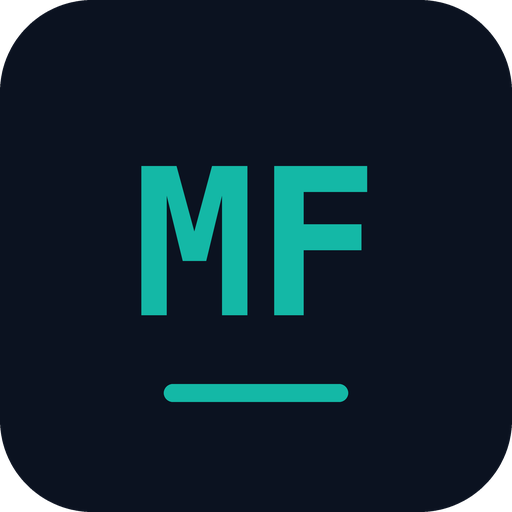
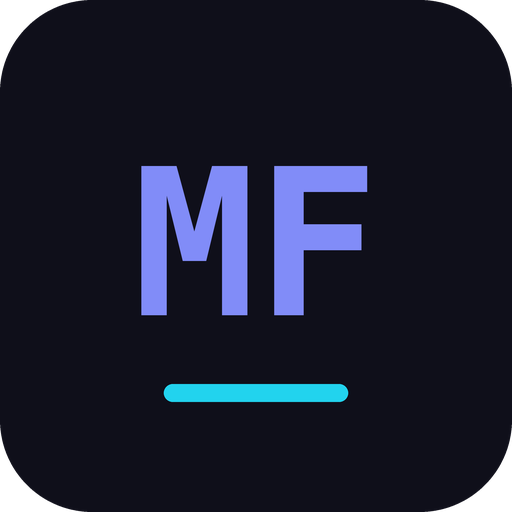
feat: switch to the Indigo Shield palette

Changed region(s): [[0.25, 0.3125, 0.5, 0.625], [0.5312, 0.3125, 0.7188, 0.625], [0.3125, 0.75, 0.6875, 0.8125]]

diff --git a/app/globals.css b/app/globals.css
@@ -4,55 +4,55 @@
 @custom-variant dark (&:where(.dark, .dark *));
 
 :root {
-  --background: #f8fafc;
+  --background: #f7f7fb;
   --surface: #ffffff;
-  --surface-muted: #f1f5f9;
-  --border: #e2e8f0;
-  --foreground: #0f172a;
-  --muted-foreground: #475569;
-  --primary: #0f766e;
-  --primary-hover: #115e59;
+  --surface-muted: #f1f1f8;
+  --border: #e4e4ef;
+  --foreground: #111127;
+  --muted-foreground: #4b4b63;
+  --primary: #4f46e5;
+  --primary-hover: #4338ca;
   --primary-foreground: #ffffff;
-  --primary-soft: #ccfbf1;
-  --primary-soft-foreground: #115e59;
-  --secondary-accent: #2563eb;
-  --secondary-soft: #dbeafe;
-  --secondary-soft-foreground: #1e40af;
+  --primary-soft: #e0e7ff;
+  --primary-soft-foreground: #3730a3;
+  --secondary-accent: #0e7490;
+  --secondary-soft: #cffafe;
+  --secondary-soft-foreground: #155e75;
   --success: #15803d;
   --danger: #b91c1c;
-  --ring: #14b8a6;
-  --grid-line: rgb(15 23 42 / 0.04);
-  --shadow-card: 0 1px 2px rgb(15 23 42 / 0.04), 0 8px 24px -6px rgb(15 23 42 / 0.08);
-  --shadow-card-hover: 0 2px 4px rgb(15 23 42 / 0.04), 0 22px 44px -14px rgb(15 118 110 / 0.28);
-  --shadow-glow: 0 24px 60px -18px rgb(15 118 110 / 0.45);
-  --blob-a: rgb(20 184 166 / 0.22);
-  --blob-b: rgb(37 99 235 / 0.14);
+  --ring: #6366f1;
+  --grid-line: rgb(17 17 39 / 0.045);
+  --shadow-card: 0 1px 2px rgb(17 17 39 / 0.04), 0 8px 24px -6px rgb(17 17 39 / 0.08);
+  --shadow-card-hover: 0 2px 4px rgb(17 17 39 / 0.04), 0 22px 44px -14px rgb(79 70 229 / 0.3);
+  --shadow-glow: 0 24px 60px -18px rgb(79 70 229 / 0.45);
+  --blob-a: rgb(99 102 241 / 0.2);
+  --blob-b: rgb(34 211 238 / 0.14);
 }
 
 .dark {
-  --background: #0b1220;
-  --surface: #111a2e;
-  --surface-muted: #16213a;
-  --border: #1f2a44;
-  --foreground: #e2e8f0;
-  --muted-foreground: #94a3b8;
-  --primary: #14b8a6;
-  --primary-hover: #2dd4bf;
-  --primary-foreground: #042f2e;
-  --primary-soft: #0f2e35;
-  --primary-soft-foreground: #5eead4;
-  --secondary-accent: #60a5fa;
-  --secondary-soft: #172554;
-  --secondary-soft-foreground: #93c5fd;
+  --background: #0f0f1a;
+  --surface: #171728;
+  --surface-muted: #1e1e33;
+  --border: #2a2a44;
+  --foreground: #e4e4f0;
+  --muted-foreground: #a0a0b8;
+  --primary: #818cf8;
+  --primary-hover: #a5b4fc;
+  --primary-foreground: #0f0f1a;
+  --primary-soft: #23234a;
+  --primary-soft-foreground: #c7d2fe;
+  --secondary-accent: #22d3ee;
+  --secondary-soft: #0f2a33;
+  --secondary-soft-foreground: #67e8f9;
   --success: #4ade80;
   --danger: #f87171;
-  --ring: #2dd4bf;
-  --grid-line: rgb(226 232 240 / 0.035);
-  --shadow-card: 0 1px 0 rgb(255 255 255 / 0.03) inset, 0 10px 30px -12px rgb(0 0 0 / 0.55);
-  --shadow-card-hover: 0 0 0 1px rgb(45 212 191 / 0.25), 0 24px 48px -16px rgb(20 184 166 / 0.35);
-  --shadow-glow: 0 28px 70px -20px rgb(20 184 166 / 0.5);
-  --blob-a: rgb(20 184 166 / 0.18);
-  --blob-b: rgb(96 165 250 / 0.12);
+  --ring: #a5b4fc;
+  --grid-line: rgb(228 228 240 / 0.035);
+  --shadow-card: 0 1px 0 rgb(255 255 255 / 0.03) inset, 0 10px 30px -12px rgb(0 0 0 / 0.6);
+  --shadow-card-hover: 0 0 0 1px rgb(129 140 248 / 0.28), 0 24px 48px -16px rgb(129 140 248 / 0.35);
+  --shadow-glow: 0 28px 70px -20px rgb(129 140 248 / 0.5);
+  --blob-a: rgb(129 140 248 / 0.18);
+  --blob-b: rgb(34 211 238 / 0.1);
 }
 
 @theme inline {

diff --git a/lib/og.tsx b/lib/og.tsx
@@ -3,11 +3,11 @@ import { ImageResponse } from "next/og";
 export const ogSize = { width: 1200, height: 630 };
 
 // next/og renders outside the CSS pipeline, so the palette is repeated here.
-const navy = "#0B1220";
-const surface = "#111A2E";
-const teal = "#14B8A6";
-const text = "#E2E8F0";
-const muted = "#94A3B8";
+const base = "#0F0F1A";
+const surface = "#171728";
+const accent = "#818CF8";
+const text = "#E4E4F0";
+const muted = "#A0A0B8";
 
 export function renderOgImage({ eyebrow, title, subtitle, initials }: {
   eyebrow: string;
@@ -25,7 +25,7 @@ export function renderOgImage({ eyebrow, title, subtitle, initials }: {
           flexDirection: "column",
           justifyContent: "space-between",
           padding: "72px 80px",
-          background: navy,
+          background: base,
           backgroundImage: `linear-gradient(${surface} 1px, transparent 1px), linear-gradient(90deg, ${surface} 1px, transparent 1px)`,
           backgroundSize: "48px 48px",
           color: text,
@@ -41,20 +41,20 @@ export function renderOgImage({ eyebrow, title, subtitle, initials }: {
               width: 64,
               height: 64,
               borderRadius: 12,
-              background: teal,
-              color: navy,
+              background: accent,
+              color: base,
               fontSize: 28,
               fontWeight: 700,
             }}
           >
             {initials}
           </div>
-          <div style={{ display: "flex", fontSize: 24, letterSpacing: 4, color: teal, textTransform: "uppercase" }}>
+          <div style={{ display: "flex", fontSize: 24, letterSpacing: 4, color: accent, textTransform: "uppercase" }}>
             {eyebrow}
           </div>
         </div>
         <div style={{ display: "flex", flexDirection: "column" }}>
-          <div style={{ display: "flex", width: 120, height: 6, background: teal, borderRadius: 3, marginBottom: 32 }} />
+          <div style={{ display: "flex", width: 120, height: 6, background: accent, borderRadius: 3, marginBottom: 32 }} />
           <div style={{ display: "flex", fontSize: title.length > 40 ? 56 : 72, fontWeight: 700, lineHeight: 1.1 }}>
             {title}
           </div>

diff --git a/app/manifest.ts b/app/manifest.ts
@@ -10,8 +10,8 @@ export default function manifest(): MetadataRoute.Manifest {
     description: profile.subheadline.en,
     start_url: "/",
     display: "standalone",
-    background_color: "#0B1220",
-    theme_color: "#0B1220",
+    background_color: "#0F0F1A",
+    theme_color: "#0F0F1A",
     icons: [
       { src: "/icon.png", sizes: "512x512", type: "image/png" },
       { src: "/apple-icon.png", sizes: "180x180", type: "image/png" },

diff --git a/app/layout.tsx b/app/layout.tsx
@@ -27,8 +27,8 @@ export async function generateMetadata(): Promise<Metadata> {
 
 export const viewport: Viewport = {
   themeColor: [
-    { media: "(prefers-color-scheme: light)", color: "#f8fafc" },
-    { media: "(prefers-color-scheme: dark)", color: "#0b1220" },
+    { media: "(prefers-color-scheme: light)", color: "#f7f7fb" },
+    { media: "(prefers-color-scheme: dark)", color: "#0f0f1a" },
   ],
   colorScheme: "light dark",
 };

diff --git a/CLAUDE.md b/CLAUDE.md
@@ -34,7 +34,7 @@ Next.js App Router, TypeScript strict, Tailwind v4, shadcn/ui, next-themes, pnpm
 - Never use the em-dash character in content or UI copy.
 - Every user-facing string exists in EN and FR.
 - No tracking beyond @vercel/analytics; no secrets in code; no `ignoreBuildErrors`.
-- Palette tokens only (navy + teal, no orange); no hardcoded hex in components.
+- Palette tokens only (Indigo Shield: indigo + cyan on deep navy, no orange); no hardcoded hex in components.
 - Keep motion subtle and respect prefers-reduced-motion.
 - WCAG 2.2 AA, Lighthouse 95+.
 - Placeholders use `{{...}}` and must be listed in README before release.
